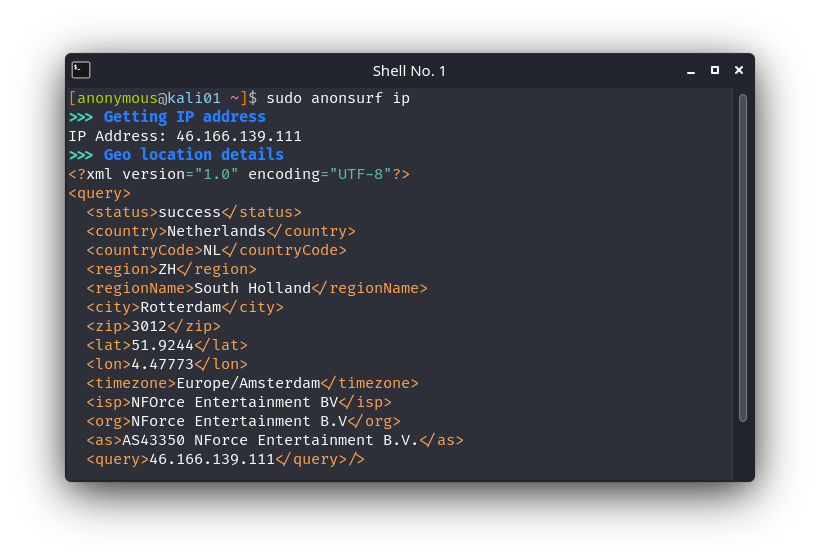
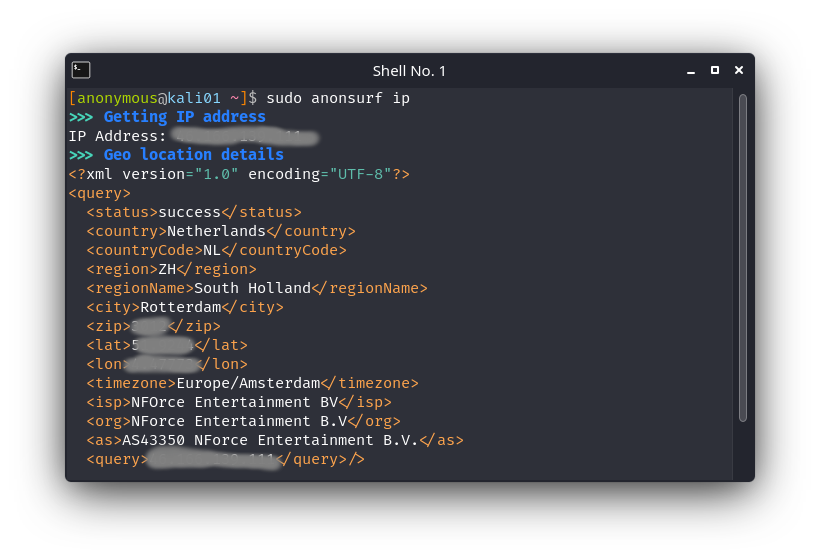
Added more images and documentation

Changed region(s): [[0.2134, 0.2129, 0.3963, 0.2737], [0.1829, 0.7907, 0.3659, 0.8515], [0.1524, 0.5474, 0.2439, 0.6691]]

diff --git a/README.md b/README.md
@@ -88,8 +88,14 @@ At any time, you can verify your IP address (and geo location details for that I
 ## Using Anonsurf (command line)
 Anonsurf comes with a terminal version and a GUI version.  
 To launch Anonsurf from command line, using the following command: `sudo anonsurf <ACTION>`  
-*Note: anonsurf must be run as root, or using 'sudo'*  
+*Note: Anonsurf must be run as root, or using 'sudo'*  
 
 The available actions are the same as in the GUI version.  
 To get an overview of available actions, simply run `anonsurf`  
 ![anonsurf-cli](https://github.com/rajprins/anonsurf/raw/master/images/anonsurf-cli.png)
+
+To start the Anonsurf services, type `sudo anonsurf start`. This will start the browsing service and redirect all traffic to anonymize it.  
+![anonsurf-start](https://github.com/rajprins/anonsurf/raw/master/images/anonsurf-start.png)
+
+After starting the anonymous mode, you can check your new IP address and geolocation details by running `sudo anonsurf ip` from command line.  
+![anonsurf-ip](https://github.com/rajprins/anonsurf/raw/master/images/anonsurf-ip.png)  
